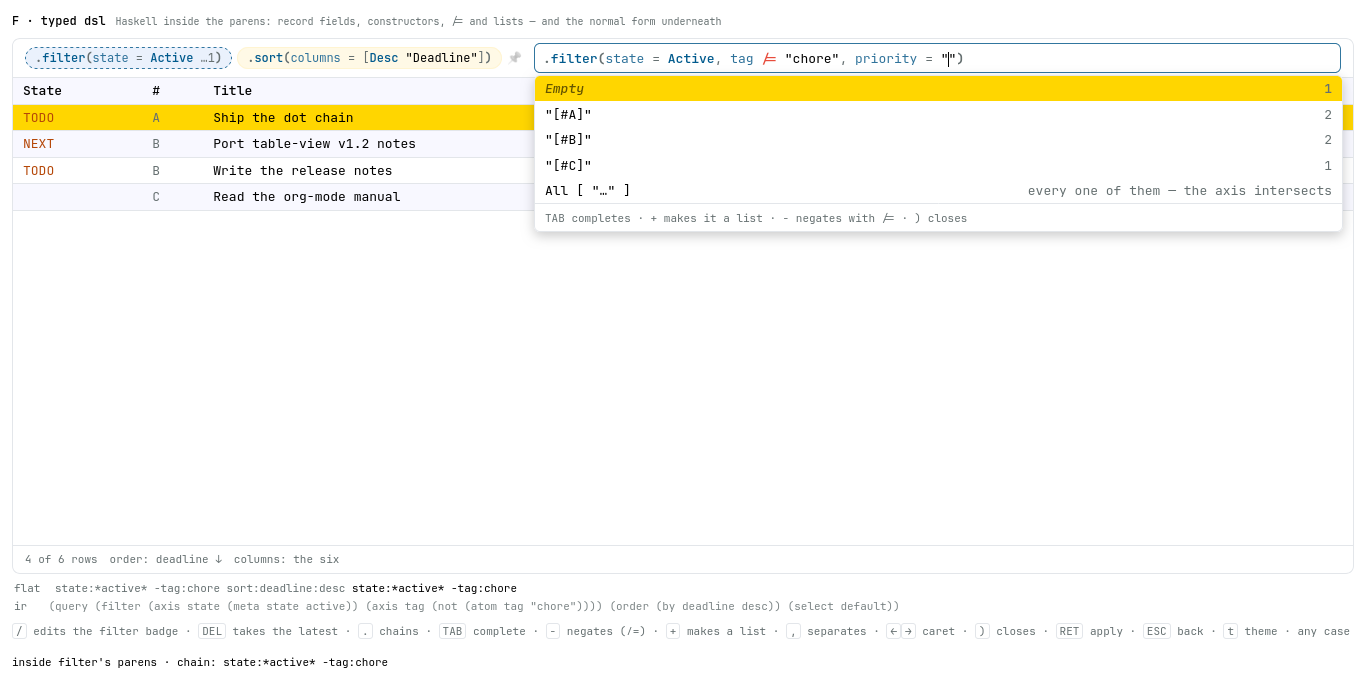
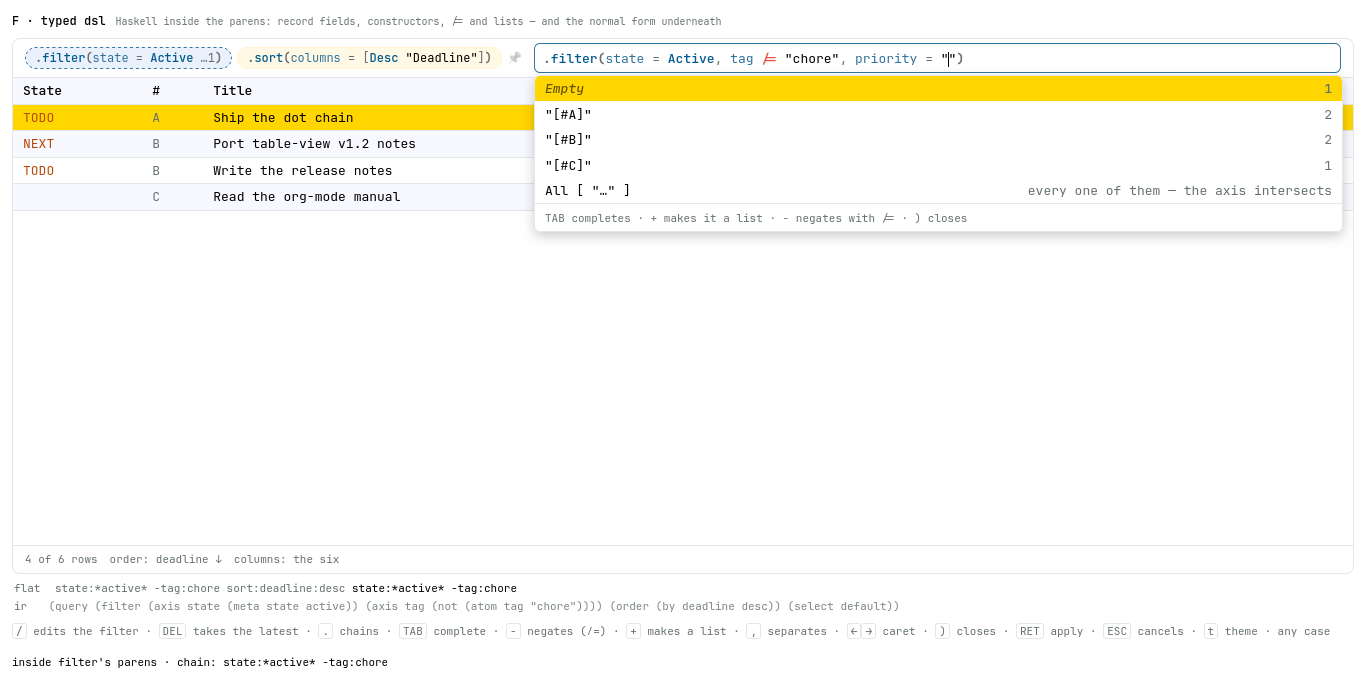
Spike: ESC cancels input — the escape is from the edit, never the menu
One press in the typed dialect abandons the edit whole: the stage
restores to the spelling the edit found (born at edit-open, captured
before the / gesture appends its comma), typed text and menu alike
discarded, an interrupted edit returning open with its offers standing.
D and the flat dialect keep their graduated ladders. The accepted cost
is stated: an accidental ESC takes the whole condition, bounded to one
stage — a cancel that kept the text would be a commit under another
name. Seven negative tests, each red on the rung that owns it.

Changed region(s): [[0.5534, 0.9238, 0.9839, 0.9545], [0.2152, 0.9238, 0.5227, 0.9545], [0.123, 0.9238, 0.1845, 0.9545]]

diff --git a/docs/spikes/2026-08-21-dot-chain-box/rig.js b/docs/spikes/2026-08-21-dot-chain-box/rig.js
@@ -1653,7 +1653,7 @@ var RIG = (function () {
   }
 
   function newStage() {
-    CX.stages.push({ fn: null, args: "", done: false, at: 0 });
+    CX.stages.push(bornOf({ fn: null, args: "", done: false, at: 0 }, "", false));
     CX.where = "fn";
     CX.buf = "";
     cxOffer();
@@ -1674,10 +1674,51 @@ var RIG = (function () {
   /** D alone: a closed stage LEAVES the box and lands on the strip as a pill. */
   function pend(st) { st.pending = true; }
 
+  /** WHAT THE EDIT FOUND, remembered the moment a stage opens for writing: the
+   *  spelling it already had, and whether it was standing CLOSED rather than
+   *  being written.  `cxCancel' is the only reader of it. */
+  function bornOf(st, spelling, pending) {
+    st.born = String(spelling);
+    st.bornPending = !!pending;
+    return st;
+  }
+
+  /**
+   * F's `ESC': THE READER'S ESCAPE IS FROM THE EDIT, NEVER FROM THE MENU.  One
+   * press abandons the open edit WHOLE and puts back what the edit found — the
+   * spelling the stage was opened on, byte for byte, and the strip it was
+   * opened over.  Everything the edit wrote goes together: the text typed into
+   * it, the offers standing over it, and the comma a `/' summoned, which is the
+   * edit's own writing and so wants no rule of its own.  A cancelled edit asked
+   * nothing, so nothing it wrote reaches the table.
+   */
+  function cxCancel() {
+    var st = CX.stages.pop();
+    // A STAGE THE EDIT TOOK OFF THE STRIP GOES BACK ONTO IT, spelled the way it
+    // stood: `reopen' and the chain's own backspace both pull a CLOSED stage
+    // into the box, and the box is not where the edit found it.  One that was
+    // already committed needs nothing — the chips hold it and the edit never
+    // touched them.
+    if (st && st.bornPending)
+      CX.stages.push({ fn: st.fn, args: st.born, at: st.born.length,
+                       done: true, pending: true, replacing: st.replacing });
+    CX.where = "chain";
+    closeMenu();
+    if (!CX.stages.length) { closeDoor(); return; }   // nothing held: the strip
+    // AN EDIT THE SUMMON INTERRUPTED IS WHERE THE READER GOES BACK TO.  `/' may
+    // be pressed inside another stage's parens, and what the cancel found there
+    // is a stage still being WRITTEN — not one standing closed — so the box
+    // returns to it open, with that position's offers standing.
+    var under = live();
+    if (under && under.fn && !under.pending) { CX.where = "args"; cxOffer(); }
+    paint();
+  }
+
   function cxBack() {
     var st = live();
     if (CX.where === "chain") {
       if (!st) return;                       // dead: a summoned box takes nothing
+      bornOf(st, st.args, !!st.pending);     // the backspace is an edit-open too
       st.done = false;
       st.pending = false;
       CX.where = "args";
@@ -1776,7 +1817,7 @@ var RIG = (function () {
     if (standing || pending) { reopen("filter"); return; }
     if (S.door !== "compose") openCompose();
     if (CX.stages.length && !live().fn) CX.stages.pop();
-    CX.stages.push({ fn: "filter", args: "", done: false });
+    CX.stages.push(bornOf({ fn: "filter", args: "", done: false }, "", false));
     CX.where = "args";
     cxOffer();
     paint();
@@ -1828,8 +1869,13 @@ var RIG = (function () {
   function cxKeys(e) {
     var k = e.key;
     if (e.ctrlKey || e.altKey || e.metaKey) return;
-    if (M.open && (k === "ArrowDown" || k === "ArrowUp" || k === "Tab"
-                   || k === "Enter" || k === "Escape")) {
+    // THE MENU DOES NOT ANSWER `ESC' IN THE TYPED SURFACE.  There the offers are
+    // incidental to the input — they stand over a position rather than being
+    // asked for — so the key falls through to the cancel below and takes them
+    // with the edit.  D keeps the menu on the top rung of its own ladder.
+    if (M.open && !(S.look.dsl && k === "Escape")
+        && (k === "ArrowDown" || k === "ArrowUp" || k === "Tab"
+            || k === "Enter" || k === "Escape")) {
       e.preventDefault(); e.stopPropagation();
       if (k === "ArrowDown") return moveMenu(1);
       if (k === "ArrowUp") return moveMenu(-1);
@@ -1875,8 +1921,20 @@ var RIG = (function () {
       return;
     }
     if (k === "Escape") {
-      // THREE RUNGS, the shipped ladder with the menu on top: the offers, the
-      // chain, the box.
+      // ESC CANCELS INPUT, and in the typed surface that is the WHOLE of what
+      // it does: one press abandons the open edit entire, whether or not the
+      // offers stand and whether or not anything was typed.  With no edit open
+      // there is no input to cancel and the key takes the box, dropping what
+      // was written but never asked for.
+      if (S.look.dsl) {
+        if (CX.where !== "chain") { cxCancel(); return; }
+        CX.stages = [];
+        closeMenu();
+        closeDoor();
+        return;
+      }
+      // D AND THE FLAT DIALECT KEEP THE GRADUATED LADDER, the shipped one with
+      // the menu on top: the offers, the chain, the box.
       if (CX.stages.length) { CX.stages = []; CX.where = "chain"; closeMenu(); paint(); return; }
       closeDoor();
       return;
@@ -2480,6 +2538,10 @@ var RIG = (function () {
     if (S.door !== "compose") openCompose();
     if (CX.stages.length && !live().fn) CX.stages.pop();
     var args = pending ? pending.args : p ? p.args : "";
+    // WHAT THE EDIT FINDS, before the gesture writes into it: a stage taken off
+    // the strip has to be spellable back exactly, and a PENDING one is only in
+    // the box — the splice below is what makes remembering it necessary.
+    var was = args, wasPending = !!(pending && pending.pending);
     if (pending) CX.stages.splice(CX.stages.indexOf(pending), 1);
     // `/' IS THE ADD-A-CONDITION GESTURE, so it lands on a FRESH ARGUMENT and
     // not at the tail of the last one: the comma is the gesture's own.  Editing
@@ -2490,8 +2552,9 @@ var RIG = (function () {
     // A STAGE ALREADY REWRITING A BADGE GOES ON REWRITING IT: reopening one
     // that is open carries the flag, or a second `/' would turn a rewrite into
     // an addition and the badge's tokens would land twice.
-    CX.stages.push({ fn: fn, args: args, done: false,
-                     replacing: pending ? !!pending.replacing : !!p });
+    CX.stages.push(bornOf({ fn: fn, args: args, done: false,
+                            replacing: pending ? !!pending.replacing : !!p },
+                          was, wasPending));
     CX.where = "args";
     // THE CARET-EDGE LAW'S OWN CONSEQUENCE: the reader was moved somewhere new,
     // so that position's offers stand at once.

diff --git a/docs/spikes/2026-08-21-dot-chain-box/f-typed-dsl.html b/docs/spikes/2026-08-21-dot-chain-box/f-typed-dsl.html
@@ -25,6 +25,12 @@
      thing that says open-value.  What stands after an accept is the canonical
      spelling — constructors capitalised, fields in the flat keys' own case.
 
+     AND ESC CANCELS INPUT.  One press abandons an open edit whole — the offers
+     standing over it, the text typed into it, the comma a `/' summoned — and
+     the box goes back to the strip it was summoned from.  D's graduated ladder
+     is not this door's: here the menu is incidental to the input, so
+     cancelling the input takes the menu with it.
+
      Under the box, the lisp normal form — read from THIS reader while the
      table is served by the flat one, so the two paths are compared on screen
      as well as in the check. */
@@ -74,11 +80,11 @@
     <div id="echo"></div>
   </div>
   <footer>
-    <span><kbd>/</kbd> edits the filter badge · <kbd>DEL</kbd> takes the latest ·
+    <span><kbd>/</kbd> edits the filter · <kbd>DEL</kbd> takes the latest ·
       <kbd>.</kbd> chains · <kbd>TAB</kbd> complete · <kbd>-</kbd> negates
       (<code>/=</code>) · <kbd>+</kbd> makes a list · <kbd>,</kbd> separates ·
       <kbd>←</kbd><kbd>→</kbd> caret · <kbd>)</kbd> closes · <kbd>RET</kbd> apply ·
-      <kbd>ESC</kbd> back · <kbd>t</kbd> theme · any case</span>
+      <kbd>ESC</kbd> cancels · <kbd>t</kbd> theme · any case</span>
     <span id="truth"></span>
   </footer>
 <script src="rig.js"></script>

diff --git a/docs/spikes/2026-08-21-dot-chain-box/README.md b/docs/spikes/2026-08-21-dot-chain-box/README.md
@@ -53,7 +53,9 @@ Keys are the shell's own, plus what a chain needs: `.` chains the next call,
 stage, `←`/`→` walk the caret, `RET` applies, `ESC` steps back a rung, `t` swaps
 the theme. In A, B, C and E, `/` opens the flat filter door. In **D and F** it is
 the filter STAGE's edit key, `DEL` is the chain's own backspace, and in F alone
-`-` and `+` are the two sign helpers.
+`-` and `+` are the two sign helpers. `ESC` parts by DIALECT rather than by tab:
+a rung on a ladder in the flat door and in D, and in **F** the cancel itself —
+one press for the whole edit (round 14).
 
 ## What each tab argues
 
@@ -275,6 +277,28 @@ produced and the check now holds:
    value is quoted, so a slash INSIDE a string is a character
    (`title = "a/b"`) and everywhere else it is the gesture. D keeps the old
    rule — it quotes nothing by default, so the line is not available there.
+14. **ESC cancels input, and that is the whole of what it does.** F had
+   inherited D's graduated ladder — the offers, then what is half-written, then
+   the box — and the reader's own rule takes it away: **one press abandons an
+   open edit WHOLE**, whether or not the menu stands over it and whether or not
+   anything was typed. The stage comes back spelled the way the edit found it,
+   byte for byte; the comma a `/` summoned goes with the rest of what the edit
+   wrote, wanting no rule of its own; and the box goes back to the strip it was
+   summoned from. **The reader's escape is from the EDIT, never from the
+   menu** — in a typed surface the offers are incidental to the input, standing
+   over a position rather than being asked for, so cancelling the input takes
+   them with it. "What the edit found" is what cost the work. The pre-edit
+   spelling is remembered at edit-OPEN, because `/` writes into the stage before
+   the reader does and because the typed text has to go too — `closeStage`'s
+   dangle-strip is the nucleus and it is not enough on its own. A stage that was
+   closed but not yet asked for lives in the BOX rather than in the chips, so
+   the cancel is the only thing that can put it back; it puts back the spelling
+   the edit found, not the one it was given. And a `/` pressed inside another
+   stage's parens interrupts an edit still being WRITTEN, so the box comes back
+   to that one open rather than leaving it at the chain level. **The rule is
+   the DSL door's alone**: D keeps its ladder and the flat door keeps the
+   shipped two-step, so the spike still shows both answers side by side and
+   `check.mjs` holds each dialect to its own.
 
 Rounds 4 and 5 cost the spike its own control. `/` was identical in all tabs on
 purpose, and `check.mjs` asserted it; D's and F's departure is now DECLARED there
@@ -365,6 +389,26 @@ round-trip corpus.
 - **Empty parens are not the same as no stage.** `.sort()` contributes nothing,
   so the default chain stands; `sort:` in the flat grammar IS the empty chain —
   document order. Document order can therefore only be SPELLED, as `.sort(None)`.
+- **An accidental `ESC` costs the whole condition.** The rule is absolute, so a
+  press meant for the dropdown takes the edit with it: a
+  `not (tag = All ["web", "glance"])` typed character by character into an open
+  filter is gone on one key, and this rig has no undo and proposes none. That is
+  the rule's **accepted cost**, not a case to soften. A cancel that kept the
+  typed text would be a commit under another name, and a ladder that makes the
+  reader press twice to leave is exactly what the rule removes; what the surface
+  owes in exchange is that the key never surprises — the same answer over an
+  open menu, over typed text, and over a summon nothing was typed into. The
+  cost is bounded by what an edit HOLDS, which is one stage: everything already
+  committed to the strip is untouched, and a `/`-edit of a standing badge cannot
+  lose more than what was typed since the `/`.
+- **A stage closed but not yet asked for lives in the box.** `)` sends a badge
+  to the strip, but the chips do not have it until `RET` — so where a `/`-edit
+  of a COMMITTED badge can simply let go and let the chips speak, an edit of a
+  pending one has to be spelled back by hand, and so does an edit the summon
+  interrupted mid-parens. That is the whole reason the pre-edit spelling is
+  remembered rather than recomputed, and it is the one rung where a wrong memory
+  shows: in the `/`-summon routes the dangling comma cannot survive a cancel,
+  because the stage carrying it does not.
 - **`DEL` is already spoken for.** `docs/query.md`: "`@` … drills into `ref:ID`
   behind a breadcrumb; `DEL` pops back." The stage eraser and the crumb pop want
   the same key in the same state. One of them has to move.
@@ -372,6 +416,8 @@ round-trip corpus.
   focusable box with a model, not a text field, so the two-step ESC, the dead
   Backspace, the strip's `×` and `stripLastToken` are all answered twice — and
   under D/F, `stripLastToken` becomes stage-sized, which is what `DEL` now does.
+  Under F the two-step ESC is answered with ONE press, so the shell's ladder and
+  the typed door's cancel are two different keys wearing one name.
 
 ## The check
 
@@ -379,6 +425,7 @@ round-trip corpus.
 node check.mjs                     # every variant
 node check.mjs f-typed-dsl.html    # one
 node shots.mjs                     # the six PNGs
+node shots.mjs f-typed-dsl.html    # one, when only that moment moved
 ```
 
 Every variant: **BOOT**, **DOT** (`.` spawns one dot and offers exactly
@@ -387,8 +434,10 @@ lands INSIDE them — in DOM order and on the screen), **CHAIN** (a scripted
 sequence composes exactly `state:TODO sort:deadline` and `RET` applies it: two
 rows, deadline order, empties last), **COMMA** (a dozen compose-equalities in the
 flat dialect, twenty-one in the typed one), **DRY** (an accept lands bare with
-the offers closed, and the next keystroke wakes them), **ESC** (three rungs,
-the strip untouched), **SETTLED**.
+the offers closed, and the next keystroke wakes them), **ESC** (the ladder in
+the dialect that owns it: three rungs in the flat door and in D — the offers,
+what is half-written, the box, the strip untouched — and exactly ONE in F, where
+the same press takes all three), **SETTLED**.
 Tabs with a flat door also owe **SLASH** (the narrowed door still refuses
 `sort:title` in the shell's own sentence) and a door **SIG** identical across
 all of them. D and F swap those for **SLASH-STAGE** (the reopened badge, which in the typed
@@ -397,8 +446,24 @@ dialect ends `, ` with the offers standing and the field names leading),
 **SLASH-ABANDON** (a fresh argument never written leaves the badge byte for byte
 as it was), **DEL-STAGE** and **DEL-INSIDE**.
 
-F owes five more:
+F owes seven more:
 
+- **ESC-ABANDON** — the reader who walks OUT of an edit, where SLASH-ABANDON is
+  the one who closes an untouched one. Three routes in — a bare `/` summon, one
+  with a condition typed into it, and one where the caret was walked back into
+  an argument already written and that argument retyped — and out of each of
+  them ONE press restores the whole picture: chips, box, rows, hint and the two
+  lines under them, byte for byte, with the box closed. Each route first pins
+  that the edit HAD something to lose — the dangling comma, the standing offers,
+  the typed text — so the rung cannot pass by cancelling nothing.
+- **ESC-RESTORE** — what the edit found goes back, in the two places the chips
+  cannot speak for it. A stage closed but not yet ASKED FOR lives in the box, so
+  the cancel is the only thing that can put it back, and what it puts back is
+  the spelling the edit found rather than the one it was given; a second press,
+  with no edit open, takes the box and the uncommitted stage with it. And an
+  edit the summon INTERRUPTED — `/` is legal inside another stage's parens — is
+  still being written, so the box returns to it open, with its caret and its
+  offers where they stood.
 - **SIGNS** — `-` flips `=` to `/=` and back, `+` turns the value into
   `["TODO", |]` with the caret in the slot, and the flat string each composes is
   the grammar's own.
@@ -444,7 +509,17 @@ F owes five more:
   stands, let it survive the close, open the position with no offers, and drop
   the rewrite flag on a second `/` — and the last of those found a real bug
   before the rung did: a second `/` mid-edit turned the rewrite into an
-  addition, so the badge's tokens would have landed twice. **Thirty in all.**
+  addition, so the badge's tokens would have landed twice. The cancel round
+  added seven: keep the menu on the top rung and the ESC rung goes red along
+  with all three walk-out routes; take the edit but leave the box standing and
+  the same four go; remember the pre-edit spelling AFTER the gesture appends its
+  comma, or put the typed text back in place of the remembered spelling, or
+  forget to put the pending stage back at all, or leave the interrupted edit at
+  the chain level, and ESC-RESTORE goes red on each; and drop the `S.look.dsl`
+  gate so the cancel reaches D, and D's own ladder goes red on D's page. The
+  restore mutants land on ESC-RESTORE and not on the `/`-summon routes, which is
+  the corner itself: in those routes the comma cannot outlive the stage that
+  carries it. **Thirty-seven in all.**
 
 The control fails five rungs by construction, the way headline-bars' `flat` tab
 does, so `a-control.html` declares DOT, PARENS, CHAIN, COMMA and DRY as misses:
